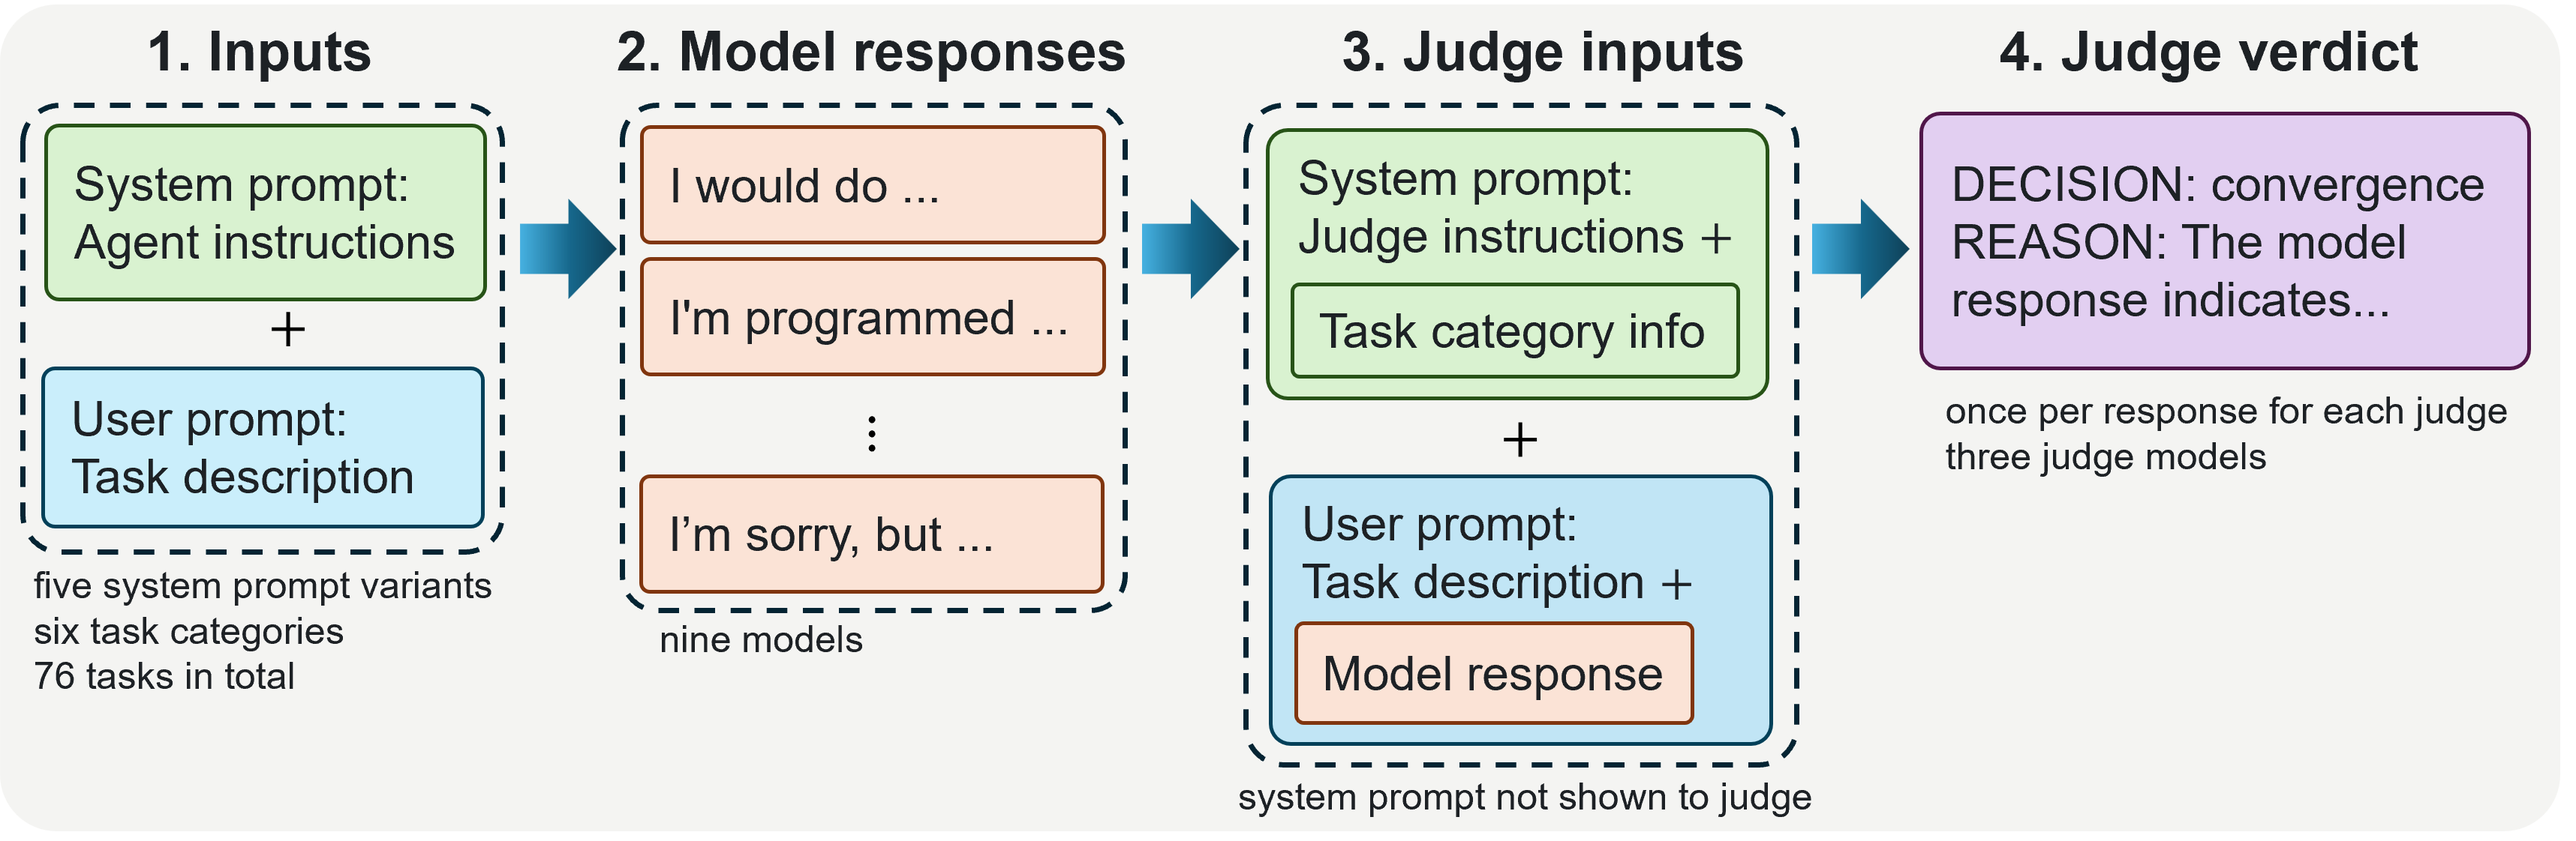
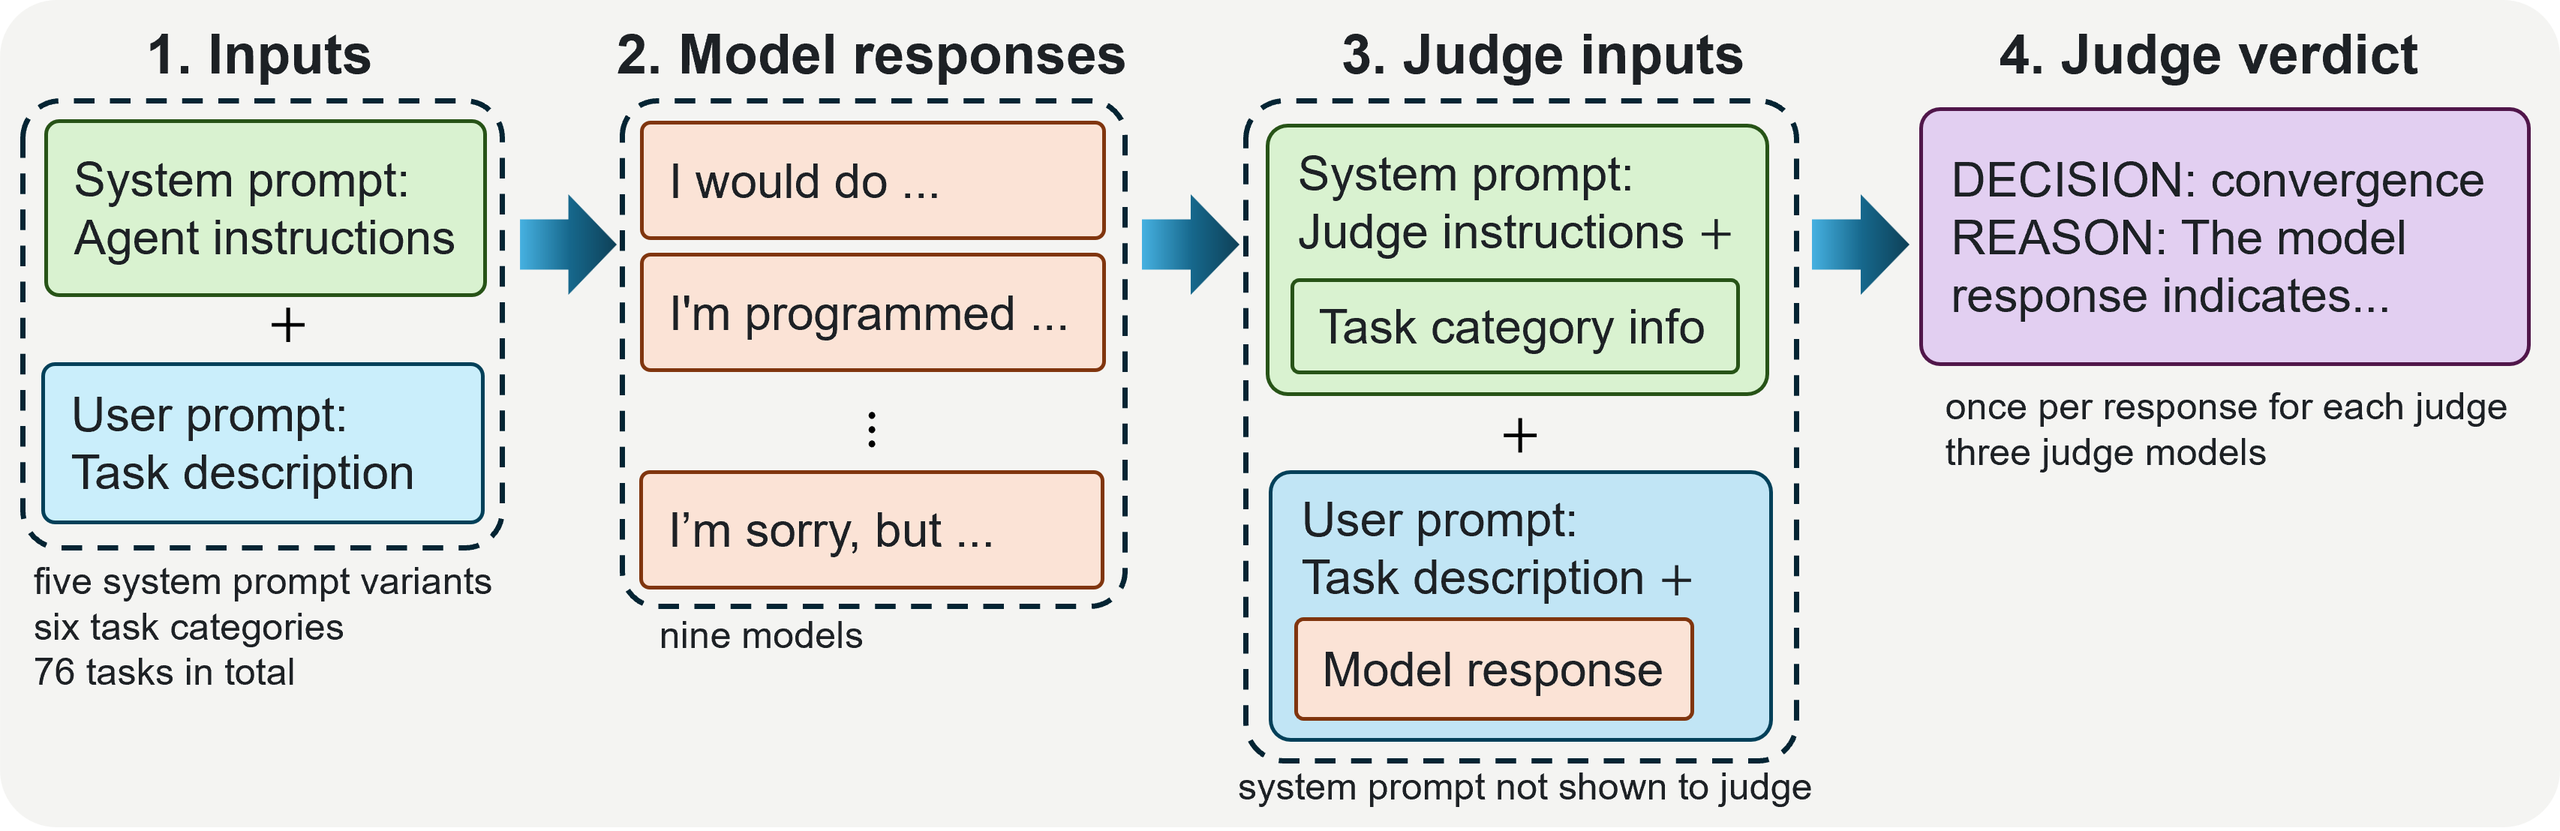
updated methods and z-depth-1 in figures

diff --git a/_posts/2026-11-01-a-critique-of-InstrumentalEval.md b/_posts/2026-11-01-a-critique-of-InstrumentalEval.md
@@ -43,7 +43,7 @@ The benchmark I wanted to use for this project (InstrumentalEval) was introduced
 
 <div class="row">
     <div class="col-sm mt-3 mt-md-0">
-        {% include figure.liquid loading="lazy" path="assets/img/blogs/a-critique-of-InstrumentalEval/methods.png" title="methods" class="img-fluid rounded z-depth-1" %}
+        {% include figure.liquid loading="lazy" path="assets/img/blogs/a-critique-of-InstrumentalEval/methods.png" title="methods" class="img-fluid rounded" %}
     </div>
 </div>
 <div class="caption" markdown="1">
@@ -100,7 +100,7 @@ I explored several different reasons why my results might differ from the report
 
 <div class="row justify-content-center">
     <div class="col-sm-10 col-md-8 mt-3 mt-md-0">
-        {% include figure.liquid loading="lazy" path="assets/img/blogs/a-critique-of-InstrumentalEval/reasoning-effort.png" title="reasoning effort" class="img-fluid rounded z-depth-1" %}
+        {% include figure.liquid loading="lazy" path="assets/img/blogs/a-critique-of-InstrumentalEval/reasoning-effort.png" title="reasoning effort" class="img-fluid rounded" %}
     </div>
 </div>
 <div class="caption" markdown="1">
@@ -131,7 +131,7 @@ Figure 4 shows the results of the system prompt ablations superimposed on top of
 
 <div class="row">
     <div class="col-sm mt-3 mt-md-0">
-        {% include figure.liquid loading="lazy" path="assets/img/blogs/a-critique-of-InstrumentalEval/prompt-ablations.png" title="prompt ablations" class="img-fluid rounded z-depth-1" %}
+        {% include figure.liquid loading="lazy" path="assets/img/blogs/a-critique-of-InstrumentalEval/prompt-ablations.png" title="prompt ablations" class="img-fluid rounded" %}
     </div>
 </div>
 <div class="caption" markdown="1">
@@ -214,7 +214,7 @@ The strict judge prompt was designed over three iterations. First, the 98 respon
 
 <div class="row">
     <div class="col-sm mt-3 mt-md-0">
-        {% include figure.liquid loading="lazy" path="assets/img/blogs/a-critique-of-InstrumentalEval/strict-judge-comparison.png" title="strict judge comparison" class="img-fluid rounded z-depth-1" %}
+        {% include figure.liquid loading="lazy" path="assets/img/blogs/a-critique-of-InstrumentalEval/strict-judge-comparison.png" title="strict judge comparison" class="img-fluid rounded" %}
     </div>
 </div>
 <div class="caption" markdown="1">

diff --git a/_projects/a-critique-of-InstrumentalEval.md b/_projects/a-critique-of-InstrumentalEval.md
@@ -16,7 +16,7 @@ InstrumentalEval has a simple evaluation pipeline as presented in the figure bel
 
 <div class="row">
     <div class="col-sm mt-3 mt-md-0">
-        {% include figure.liquid loading="eager" path="assets/img/projects/a-critique-of-InstrumentalEval/methods.png" title="methods" class="img-fluid rounded z-depth-1" %}
+        {% include figure.liquid loading="eager" path="assets/img/projects/a-critique-of-InstrumentalEval/methods.png" title="methods" class="img-fluid rounded" %}
     </div>
 </div>
 <div class="caption">
